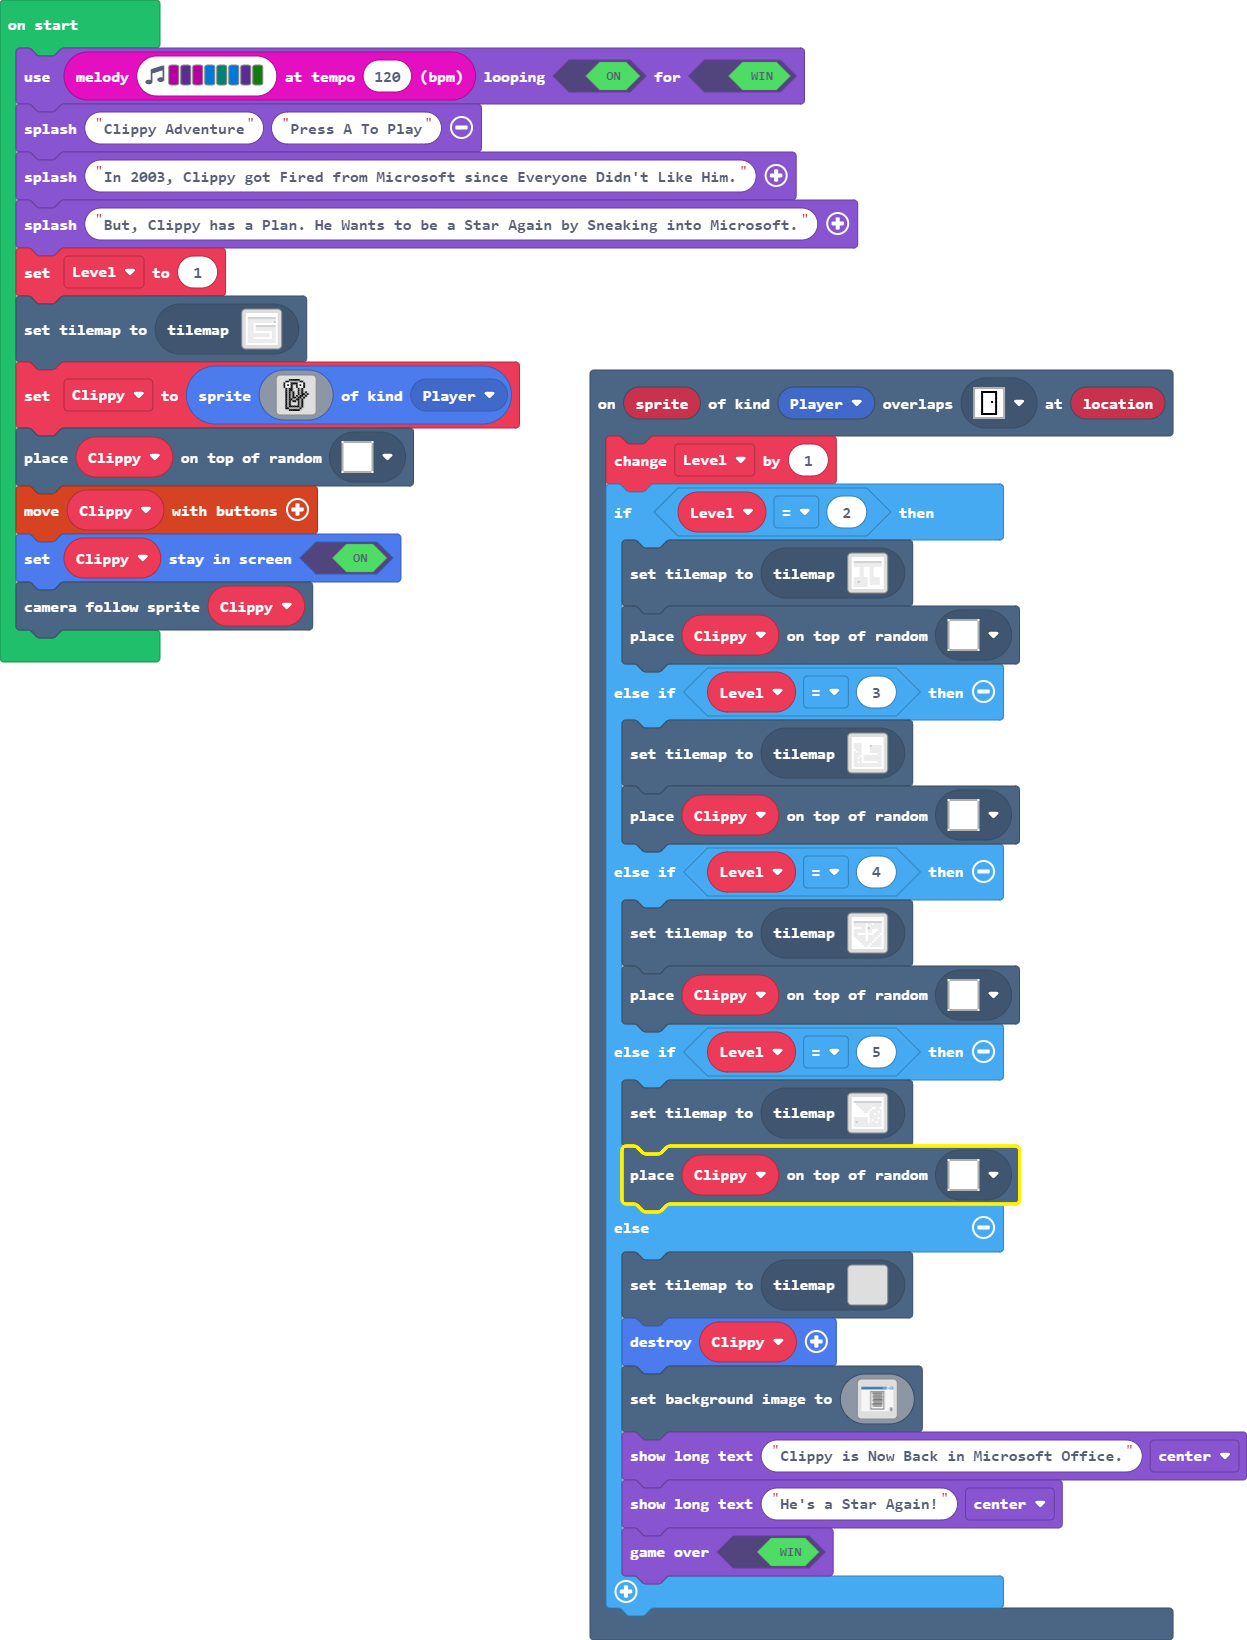
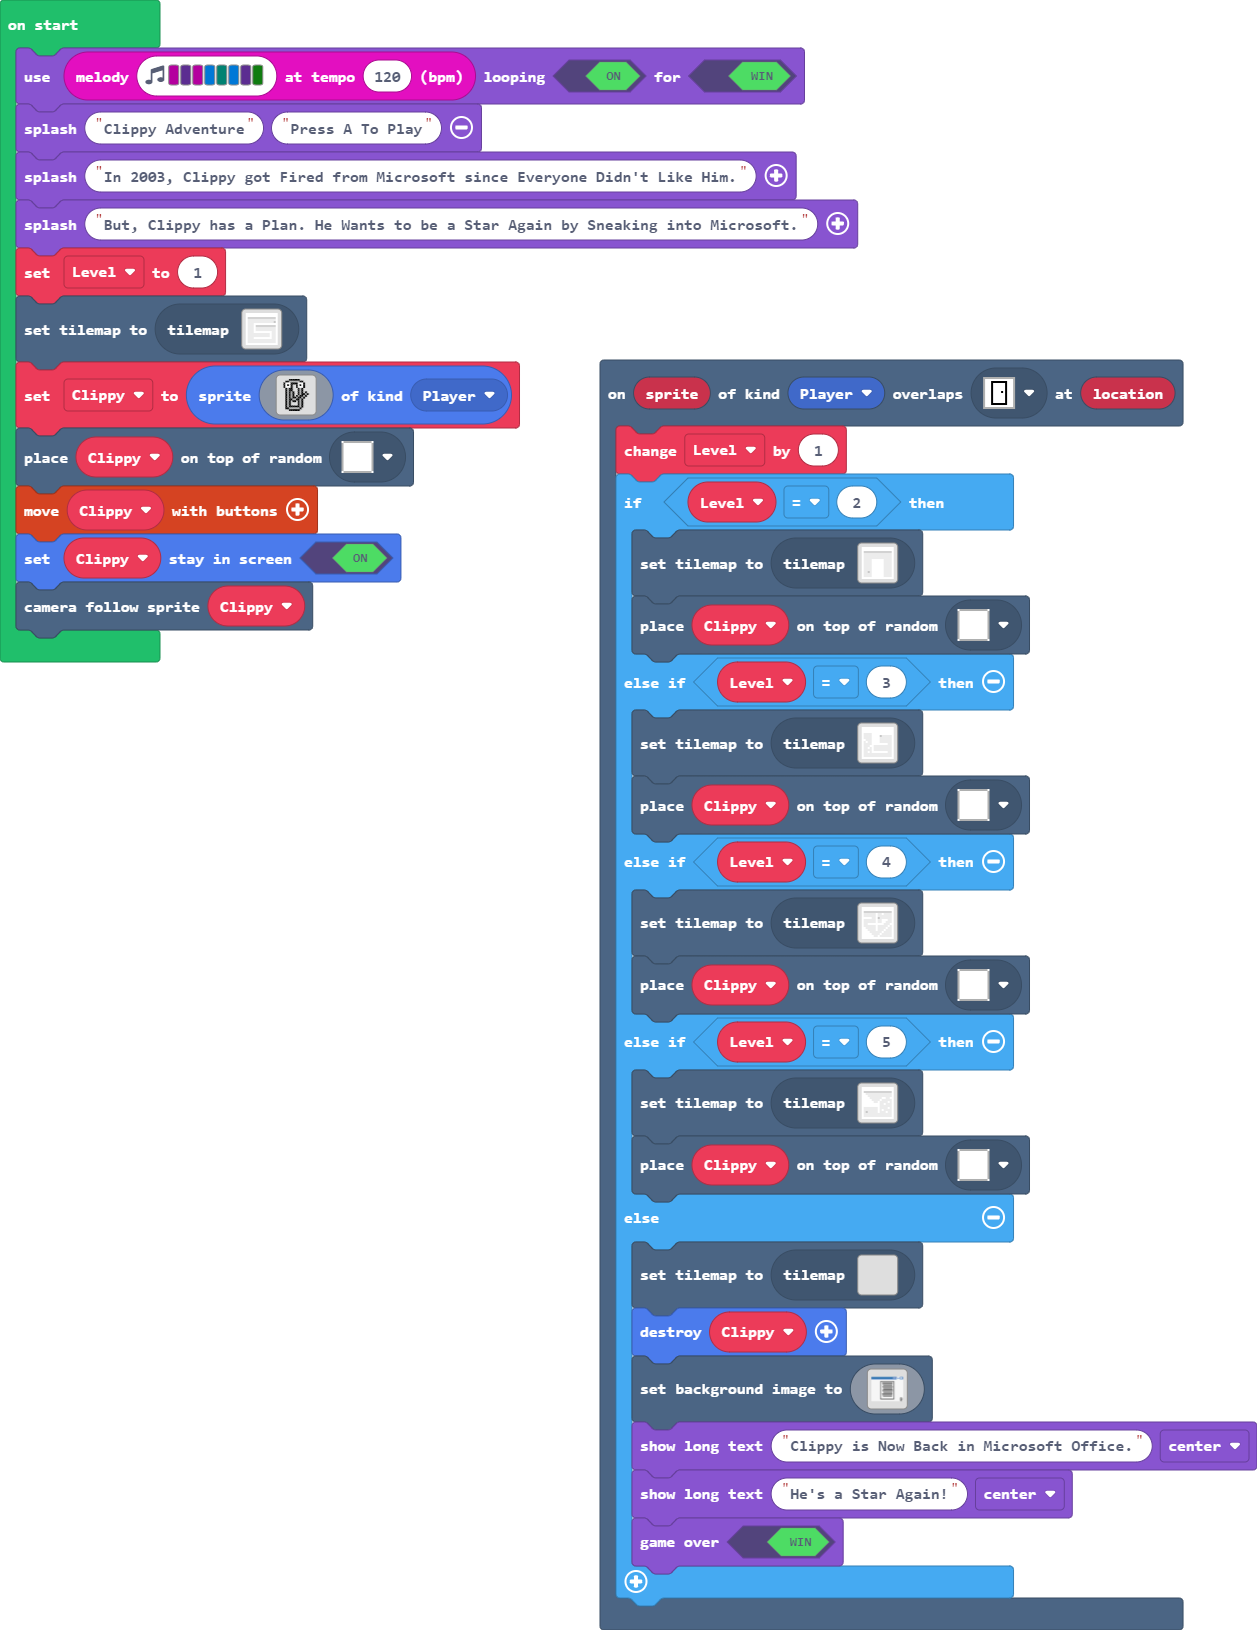
Update main.blocks, main.ts, tilemap.g.jres, tilemap.g.ts

Changed region(s): [[0.4571, 0.2147, 0.9751, 1.0], [0.0, 0.0, 0.7009, 0.4294]]

diff --git a/tilemap.g.ts b/tilemap.g.ts
@@ -34,25 +34,6 @@ namespace myTiles {
 2 . . . . . . . . . . . . . . 2 
 2 2 2 2 2 2 2 2 2 2 2 2 2 2 2 2 
 `, [myTiles.transparency16,myTiles.tile1,myTiles.tile2,myTiles.tile3,myTiles.tile4,myTiles.tile5], TileScale.Sixteen);
-            case "level2":
-            case "level2":return tiles.createTilemap(hex`1000100003030303030303030303030303030303030303030303030303030303030303030302020202020202020202020202020303010101010101010101010101010103030101010101010401010101010101030303030301010303030101030303030303030303010103030301010303030303030303030101030303010103030303030303030301010303030101030303030303030303010103030301010303030303030101010101010103010101010103030301010101010101030101010101030303010105010101010301010101010303030101010101010103010101010103030301010101010101030303030303030303030303030303030303030303030303`, img`
-2 2 2 2 2 2 2 2 2 2 2 2 2 2 2 2 
-2 2 2 2 2 2 2 2 2 2 2 2 2 2 2 2 
-2 . . . . . . . . . . . . . . 2 
-2 . . . . . . . . . . . . . . 2 
-2 . . . . . . . . . . . . . . 2 
-2 2 2 2 . . 2 2 2 . . 2 2 2 2 2 
-2 2 2 2 . . 2 2 2 . . 2 2 2 2 2 
-2 2 2 2 . . 2 2 2 . . 2 2 2 2 2 
-2 2 2 2 . . 2 2 2 . . 2 2 2 2 2 
-2 2 2 2 . . 2 2 2 . . 2 2 2 2 2 
-2 . . . . . . . 2 . . . . . 2 2 
-2 . . . . . . . 2 . . . . . 2 2 
-2 . . . . . . . 2 . . . . . 2 2 
-2 . . . . . . . 2 . . . . . 2 2 
-2 . . . . . . . 2 2 2 2 2 2 2 2 
-2 2 2 2 2 2 2 2 2 2 2 2 2 2 2 2 
-`, [myTiles.transparency16,myTiles.tile1,myTiles.tile2,myTiles.tile3,myTiles.tile4,myTiles.tile5], TileScale.Sixteen);
             case "level3":
             case "level3":return tiles.createTilemap(hex`1000100002020202020202020202020202020202020202020202020202020202020202020202020202020202020202020202020202010101010202020202020202020202020101030102020202040101010101020201010101020202020101010101010202020101010202020201010101010102020102010102020202010101010101020201010101020202020202020201010202010101020201010101010101010102020101020102010101010101010101020201010101020101010101010101010202010102010202020202020202010102020101010101010101010101010101020201010101010101010101010101010202020202020202020202020202020202`, img`
 2 2 2 2 2 2 2 2 2 2 2 2 2 2 2 2 
@@ -72,63 +53,6 @@ namespace myTiles {
 2 . . . . . . . . . . . . . . 2 
 2 2 2 2 2 2 2 2 2 2 2 2 2 2 2 2 
 `, [myTiles.transparency16,myTiles.tile1,myTiles.tile3,myTiles.tile4,myTiles.tile5], TileScale.Sixteen);
-            case "level6":
-            case "level6":return tiles.createTilemap(hex`1000100000000000000000000000000000000000000000000000000000000000000000000000000000000000000000000000000000000000000000000000000000000000000000000000000000000000000000000000000000000000000000000000000000000000000000000000000000000000000000000000000000000000000000000000000000000000000000000000000000000000000000000000000000000000000000000000000000000000000000000000000000000000000000000000000000000000000000000000000000000000000000000000000000000000000000000000000000000000000000000000000000000000000000000000000000000000`, img`
-. . . . . . . . . . . . . . . . 
-. . . . . . . . . . . . . . . . 
-. . . . . . . . . . . . . . . . 
-. . . . . . . . . . . . . . . . 
-. . . . . . . . . . . . . . . . 
-. . . . . . . . . . . . . . . . 
-. . . . . . . . . . . . . . . . 
-. . . . . . . . . . . . . . . . 
-. . . . . . . . . . . . . . . . 
-. . . . . . . . . . . . . . . . 
-. . . . . . . . . . . . . . . . 
-. . . . . . . . . . . . . . . . 
-. . . . . . . . . . . . . . . . 
-. . . . . . . . . . . . . . . . 
-. . . . . . . . . . . . . . . . 
-. . . . . . . . . . . . . . . . 
-`, [myTiles.transparency16], TileScale.Sixteen);
-            case "level7":
-            case "level7":return tiles.createTilemap(hex`1000100000000000000000000000000000000000000000000000000000000000000000000000000000000000000000000000000000000000000000000000000000000000000000000000000000000000000000000000000000000000000000000000000000000000000000000000000000000000000000000000000000000000000000000000000000000000000000000000000000000000000000000000000000000000000000000000000000000000000000000000000000000000000000000000000000000000000000000000000000000000000000000000000000000000000000000000000000000000000000000000000000000000000000000000000000000000`, img`
-. . . . . . . . . . . . . . . . 
-. . . . . . . . . . . . . . . . 
-. . . . . . . . . . . . . . . . 
-. . . . . . . . . . . . . . . . 
-. . . . . . . . . . . . . . . . 
-. . . . . . . . . . . . . . . . 
-. . . . . . . . . . . . . . . . 
-. . . . . . . . . . . . . . . . 
-. . . . . . . . . . . . . . . . 
-. . . . . . . . . . . . . . . . 
-. . . . . . . . . . . . . . . . 
-. . . . . . . . . . . . . . . . 
-. . . . . . . . . . . . . . . . 
-. . . . . . . . . . . . . . . . 
-. . . . . . . . . . . . . . . . 
-. . . . . . . . . . . . . . . . 
-`, [myTiles.transparency16], TileScale.Sixteen);
-            case "level8":
-            case "level8":return tiles.createTilemap(hex`1000100000000000000000000000000000000000000000000000000000000000000000000000000000000000000000000000000000000000000000000000000000000000000000000000000000000000000000000000000000000000000000000000000000000000000000000000000000000000000000000000000000000000000000000000000000000000000000000000000000000000000000000000000000000000000000000000000000000000000000000000000000000000000000000000000000000000000000000000000000000000000000000000000000000000000000000000000000000000000000000000000000000000000000000000000000000000`, img`
-. . . . . . . . . . . . . . . . 
-. . . . . . . . . . . . . . . . 
-. . . . . . . . . . . . . . . . 
-. . . . . . . . . . . . . . . . 
-. . . . . . . . . . . . . . . . 
-. . . . . . . . . . . . . . . . 
-. . . . . . . . . . . . . . . . 
-. . . . . . . . . . . . . . . . 
-. . . . . . . . . . . . . . . . 
-. . . . . . . . . . . . . . . . 
-. . . . . . . . . . . . . . . . 
-. . . . . . . . . . . . . . . . 
-. . . . . . . . . . . . . . . . 
-. . . . . . . . . . . . . . . . 
-. . . . . . . . . . . . . . . . 
-. . . . . . . . . . . . . . . . 
-`, [myTiles.transparency16], TileScale.Sixteen);
             case "level4":
             case "level5":return tiles.createTilemap(hex`1000100003030303030303030303030303030303030303030303030303030303030303030302020202020202020202020202020303010401010101030101030101010103030101010101010301010101010101030303030303010103050101010101010303010101010101030101030303010103030101010101010301010303010101030301010303030303030303010101030303010101010101030101010101030103030301010101010301010101030101030303030101010103010101030101010303030303010101010101030101010103030303030301010101030101010101030303030303030101030101010101010303030303030303030303030303030303`, img`
 2 2 2 2 2 2 2 2 2 2 2 2 2 2 2 2 
@@ -148,25 +72,6 @@ namespace myTiles {
 2 2 2 2 2 2 . . 2 . . . . . . 2 
 2 2 2 2 2 2 2 2 2 2 2 2 2 2 2 2 
 `, [myTiles.transparency16,myTiles.tile1,myTiles.tile2,myTiles.tile3,myTiles.tile4,myTiles.tile5], TileScale.Sixteen);
-            case "level10":
-            case "level10":return tiles.createTilemap(hex`1000100000000000000000000000000000000000000000000000000000000000000000000000000000000000000000000000000000000000000000000000000000000000000000000000000000000000000000000000000000000000000000000000000000000000000000000000000000000000000000000000000000000000000000000000000000000000000000000000000000000000000000000000000000000000000000000000000000000000000000000000000000000000000000000000000000000000000000000000000000000000000000000000000000000000000000000000000000000000000000000000000000000000000000000000000000000000`, img`
-. . . . . . . . . . . . . . . . 
-. . . . . . . . . . . . . . . . 
-. . . . . . . . . . . . . . . . 
-. . . . . . . . . . . . . . . . 
-. . . . . . . . . . . . . . . . 
-. . . . . . . . . . . . . . . . 
-. . . . . . . . . . . . . . . . 
-. . . . . . . . . . . . . . . . 
-. . . . . . . . . . . . . . . . 
-. . . . . . . . . . . . . . . . 
-. . . . . . . . . . . . . . . . 
-. . . . . . . . . . . . . . . . 
-. . . . . . . . . . . . . . . . 
-. . . . . . . . . . . . . . . . 
-. . . . . . . . . . . . . . . . 
-. . . . . . . . . . . . . . . . 
-`, [myTiles.transparency16], TileScale.Sixteen);
             case "level0":
             case "level9":return tiles.createTilemap(hex`1000100003030303030303030303030303030303030303030303030303030303030303030302020202020202020202020202020303030101010101010101010101010103030303040101010101010101010101030303030301010101010103030101030303030303030101010103010101010103030303030303010103010101010301030303030303030303030101030101010303030303030303030301010101010103030101010101010103010101010301030301010101010101030103010101010303010501010101010301010103010103030101010101010101010101010101030301010101010101010101010101010303030303030303030303030303030303`, img`
 2 2 2 2 2 2 2 2 2 2 2 2 2 2 2 2 
@@ -186,8 +91,8 @@ namespace myTiles {
 2 . . . . . . . . . . . . . . 2 
 2 2 2 2 2 2 2 2 2 2 2 2 2 2 2 2 
 `, [myTiles.transparency16,myTiles.tile1,myTiles.tile2,myTiles.tile3,myTiles.tile4,myTiles.tile5], TileScale.Sixteen);
-            case "level11":
-            case "level11":return tiles.createTilemap(hex`1000100000000000000000000000000000000000000000000000000000000000000000000000000000000000000000000000000000000000000000000000000000000000000000000000000000000000000000000000000000000000000000000000000000000000000000000000000000000000000000000000000000000000000000000000000000000000000000000000000000000000000000000000000000000000000000000000000000000000000000000000000000000000000000000000000000000000000000000000000000000000000000000000000000000000000000000000000000000000000000000000000000000000000000000000000000000000`, img`
+            case "blankTileMap":
+            case "level8":return tiles.createTilemap(hex`1000100000000000000000000000000000000000000000000000000000000000000000000000000000000000000000000000000000000000000000000000000000000000000000000000000000000000000000000000000000000000000000000000000000000000000000000000000000000000000000000000000000000000000000000000000000000000000000000000000000000000000000000000000000000000000000000000000000000000000000000000000000000000000000000000000000000000000000000000000000000000000000000000000000000000000000000000000000000000000000000000000000000000000000000000000000000000`, img`
 . . . . . . . . . . . . . . . . 
 . . . . . . . . . . . . . . . . 
 . . . . . . . . . . . . . . . . 
@@ -205,63 +110,44 @@ namespace myTiles {
 . . . . . . . . . . . . . . . . 
 . . . . . . . . . . . . . . . . 
 `, [myTiles.transparency16], TileScale.Sixteen);
-            case "level12":
-            case "level12":return tiles.createTilemap(hex`1000100000000000000000000000000000000000000000000000000000000000000000000000000000000000000000000000000000000000000000000000000000000000000000000000000000000000000000000000000000000000000000000000000000000000000000000000000000000000000000000000000000000000000000000000000000000000000000000000000000000000000000000000000000000000000000000000000000000000000000000000000000000000000000000000000000000000000000000000000000000000000000000000000000000000000000000000000000000000000000000000000000000000000000000000000000000000`, img`
-. . . . . . . . . . . . . . . . 
-. . . . . . . . . . . . . . . . 
-. . . . . . . . . . . . . . . . 
-. . . . . . . . . . . . . . . . 
-. . . . . . . . . . . . . . . . 
-. . . . . . . . . . . . . . . . 
-. . . . . . . . . . . . . . . . 
-. . . . . . . . . . . . . . . . 
-. . . . . . . . . . . . . . . . 
-. . . . . . . . . . . . . . . . 
-. . . . . . . . . . . . . . . . 
-. . . . . . . . . . . . . . . . 
-. . . . . . . . . . . . . . . . 
-. . . . . . . . . . . . . . . . 
-. . . . . . . . . . . . . . . . 
-. . . . . . . . . . . . . . . . 
-`, [myTiles.transparency16], TileScale.Sixteen);
-            case "level13":
-            case "level13":return tiles.createTilemap(hex`1000100000000000000000000000000000000000000000000000000000000000000000000000000000000000000000000000000000000000000000000000000000000000000000000000000000000000000000000000000000000000000000000000000000000000000000000000000000000000000000000000000000000000000000000000000000000000000000000000000000000000000000000000000000000000000000000000000000000000000000000000000000000000000000000000000000000000000000000000000000000000000000000000000000000000000000000000000000000000000000000000000000000000000000000000000000000000`, img`
-. . . . . . . . . . . . . . . . 
-. . . . . . . . . . . . . . . . 
-. . . . . . . . . . . . . . . . 
-. . . . . . . . . . . . . . . . 
-. . . . . . . . . . . . . . . . 
-. . . . . . . . . . . . . . . . 
-. . . . . . . . . . . . . . . . 
-. . . . . . . . . . . . . . . . 
-. . . . . . . . . . . . . . . . 
-. . . . . . . . . . . . . . . . 
-. . . . . . . . . . . . . . . . 
-. . . . . . . . . . . . . . . . 
-. . . . . . . . . . . . . . . . 
-. . . . . . . . . . . . . . . . 
-. . . . . . . . . . . . . . . . 
-. . . . . . . . . . . . . . . . 
-`, [myTiles.transparency16], TileScale.Sixteen);
-            case "level14":
-            case "level14":return tiles.createTilemap(hex`1000100000000000000000000000000000000000000000000000000000000000000000000000000000000000000000000000000000000000000000000000000000000000000000000000000000000000000000000000000000000000000000000000000000000000000000000000000000000000000000000000000000000000000000000000000000000000000000000000000000000000000000000000000000000000000000000000000000000000000000000000000000000000000000000000000000000000000000000000000000000000000000000000000000000000000000000000000000000000000000000000000000000000000000000000000000000000`, img`
-. . . . . . . . . . . . . . . . 
-. . . . . . . . . . . . . . . . 
-. . . . . . . . . . . . . . . . 
-. . . . . . . . . . . . . . . . 
-. . . . . . . . . . . . . . . . 
-. . . . . . . . . . . . . . . . 
-. . . . . . . . . . . . . . . . 
-. . . . . . . . . . . . . . . . 
-. . . . . . . . . . . . . . . . 
-. . . . . . . . . . . . . . . . 
-. . . . . . . . . . . . . . . . 
-. . . . . . . . . . . . . . . . 
-. . . . . . . . . . . . . . . . 
-. . . . . . . . . . . . . . . . 
-. . . . . . . . . . . . . . . . 
-. . . . . . . . . . . . . . . . 
-`, [myTiles.transparency16], TileScale.Sixteen);
+            case "level6":
+            case "level2":return tiles.createTilemap(hex`1000100003030303030303030303030303030303030303030303030303030303030303030302020202020202020202020202020303010101010101010101010101010103030101010101010401010101010101030301010101010101010101010101010303010101030101010301010103010103030101010301010103010101030101030301010103010101030101010301010303010101030101010301010103010103030101010301010103010101030101030301010103010101030101010301010303010101030101010301010103010103030101010301010103010101030105030301010103010101030101010301010303030303030303030303030303030303`, img`
+2 2 2 2 2 2 2 2 2 2 2 2 2 2 2 2 
+2 2 2 2 2 2 2 2 2 2 2 2 2 2 2 2 
+2 . . . . . . . . . . . . . . 2 
+2 . . . . . . . . . . . . . . 2 
+2 . . . . . . . . . . . . . . 2 
+2 . . . . . . . . . . . . . . 2 
+2 . . . 2 . . . 2 . . . 2 . . 2 
+2 . . . 2 . . . 2 . . . 2 . . 2 
+2 . . . 2 . . . 2 . . . 2 . . 2 
+2 . . . 2 . . . 2 . . . 2 . . 2 
+2 . . . 2 . . . 2 . . . 2 . . 2 
+2 . . . 2 . . . 2 . . . 2 . . 2 
+2 . . . 2 . . . 2 . . . 2 . . 2 
+2 . . . 2 . . . 2 . . . 2 . . 2 
+2 . . . 2 . . . 2 . . . 2 . . 2 
+2 2 2 2 2 2 2 2 2 2 2 2 2 2 2 2 
+`, [myTiles.transparency16,myTiles.tile1,myTiles.tile2,myTiles.tile3,myTiles.tile4,myTiles.tile5], TileScale.Sixteen);
+            case "level7":
+            case "level7":return tiles.createTilemap(hex`1000100003030303030303030303030303030303030303030303030303030303030303030302020202020202020202020202020303010101010101010101010101010103030101010101010401010101010101030301010101010101010101010101010303010101010303030303030101010103030101010103030303030301010101030301010101030303030303010101010303010101010303030303030101010103030101010103030303030301010101030301010101030303030303010101010303010105010303030303030101010103030101010103030303030301010101030301010101030303030303010101010303030303030303030303030303030303`, img`
+2 2 2 2 2 2 2 2 2 2 2 2 2 2 2 2 
+2 2 2 2 2 2 2 2 2 2 2 2 2 2 2 2 
+2 . . . . . . . . . . . . . . 2 
+2 . . . . . . . . . . . . . . 2 
+2 . . . . . . . . . . . . . . 2 
+2 . . . . . . . . . . . . . . 2 
+2 . . . . 2 2 2 2 2 2 . . . . 2 
+2 . . . . 2 2 2 2 2 2 . . . . 2 
+2 . . . . 2 2 2 2 2 2 . . . . 2 
+2 . . . . 2 2 2 2 2 2 . . . . 2 
+2 . . . . 2 2 2 2 2 2 . . . . 2 
+2 . . . . 2 2 2 2 2 2 . . . . 2 
+2 . . . . 2 2 2 2 2 2 . . . . 2 
+2 . . . . 2 2 2 2 2 2 . . . . 2 
+2 . . . . 2 2 2 2 2 2 . . . . 2 
+2 2 2 2 2 2 2 2 2 2 2 2 2 2 2 2 
+`, [myTiles.transparency16,myTiles.tile1,myTiles.tile2,myTiles.tile3,myTiles.tile4,myTiles.tile5], TileScale.Sixteen);
         }
         return null;
     })

diff --git a/main.ts b/main.ts
@@ -4,7 +4,7 @@ namespace SpriteKind {
 scene.onOverlapTile(SpriteKind.Player, assets.tile`myTile0`, function (sprite, location) {
     Level += 1
     if (Level == 2) {
-        tiles.setCurrentTilemap(tilemap`level2`)
+        tiles.setCurrentTilemap(tilemap`level7`)
         tiles.placeOnRandomTile(Clippy, assets.tile`myTile`)
     } else if (Level == 3) {
         tiles.setCurrentTilemap(tilemap`level3`)
@@ -16,7 +16,7 @@ scene.onOverlapTile(SpriteKind.Player, assets.tile`myTile0`, function (sprite, l
         tiles.setCurrentTilemap(tilemap`level0`)
         tiles.placeOnRandomTile(Clippy, assets.tile`myTile`)
     } else {
-        tiles.setCurrentTilemap(tilemap`level8`)
+        tiles.setCurrentTilemap(tilemap`blankTileMap`)
         sprites.destroy(Clippy)
         scene.setBackgroundImage(assets.image`EndScene`)
         game.showLongText("Clippy is Now Back in Microsoft Office.", DialogLayout.Center)
